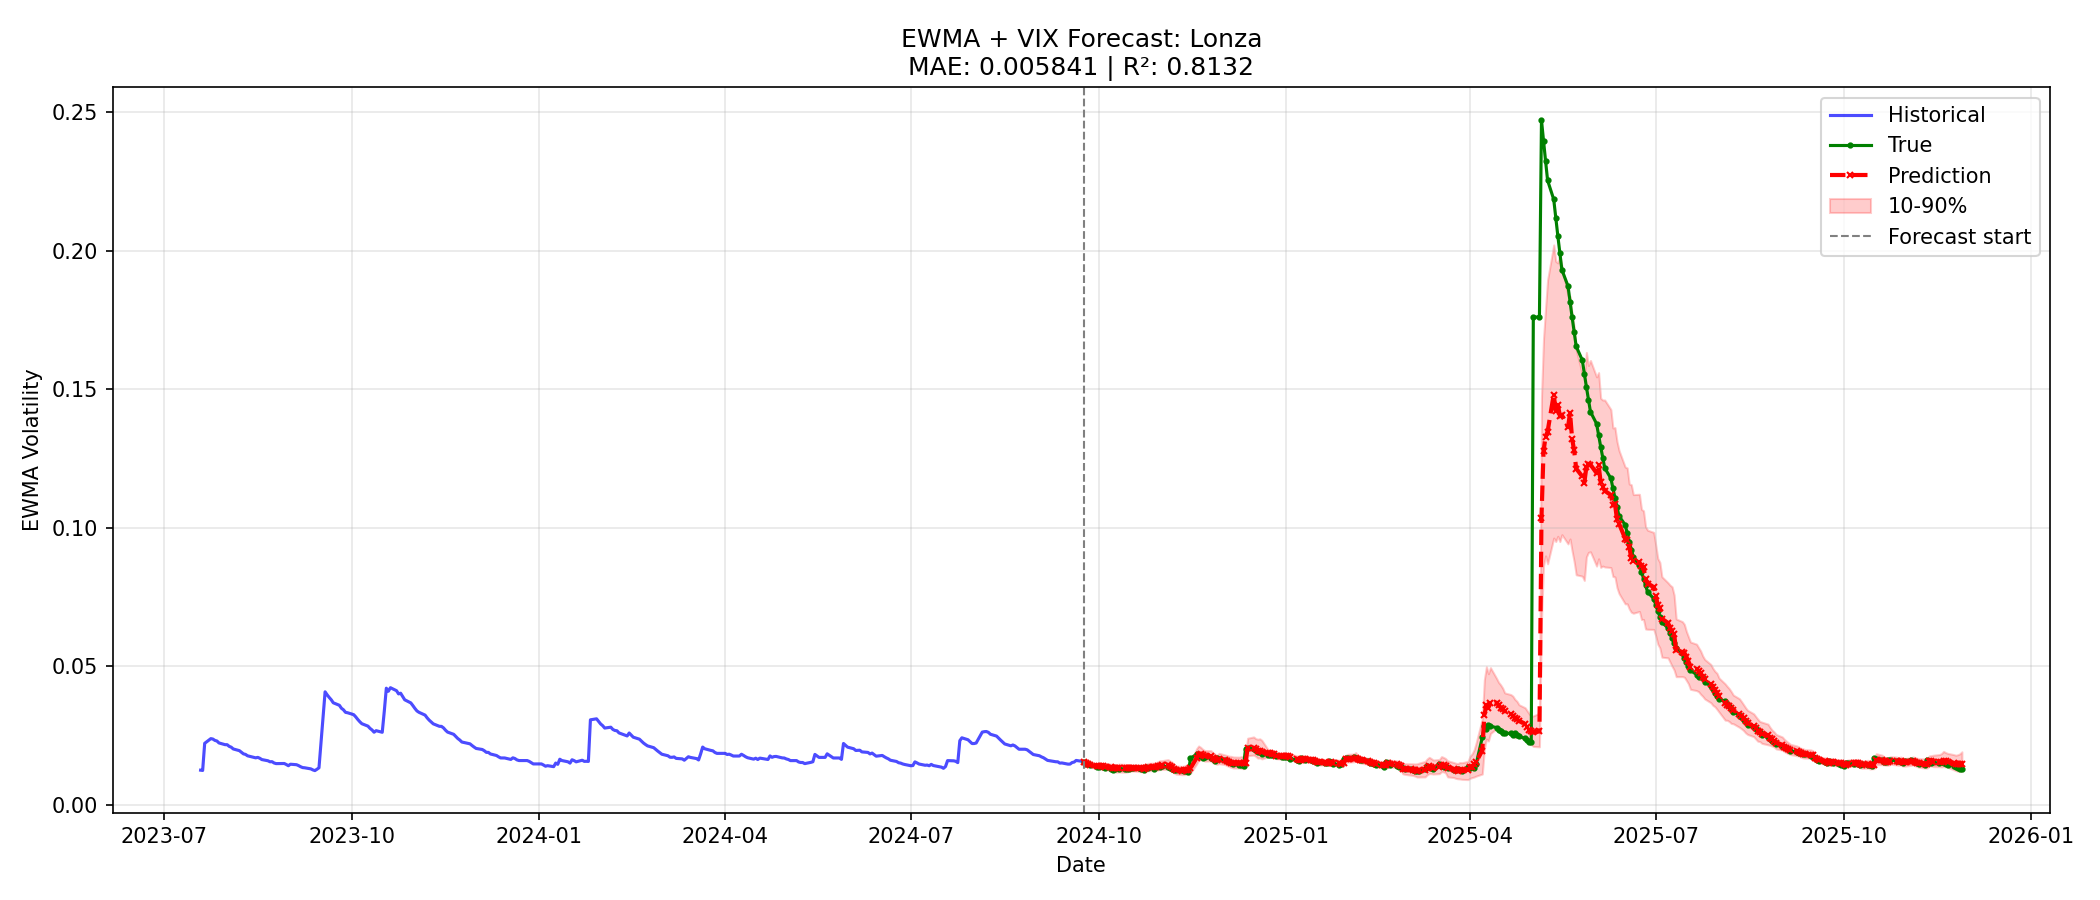
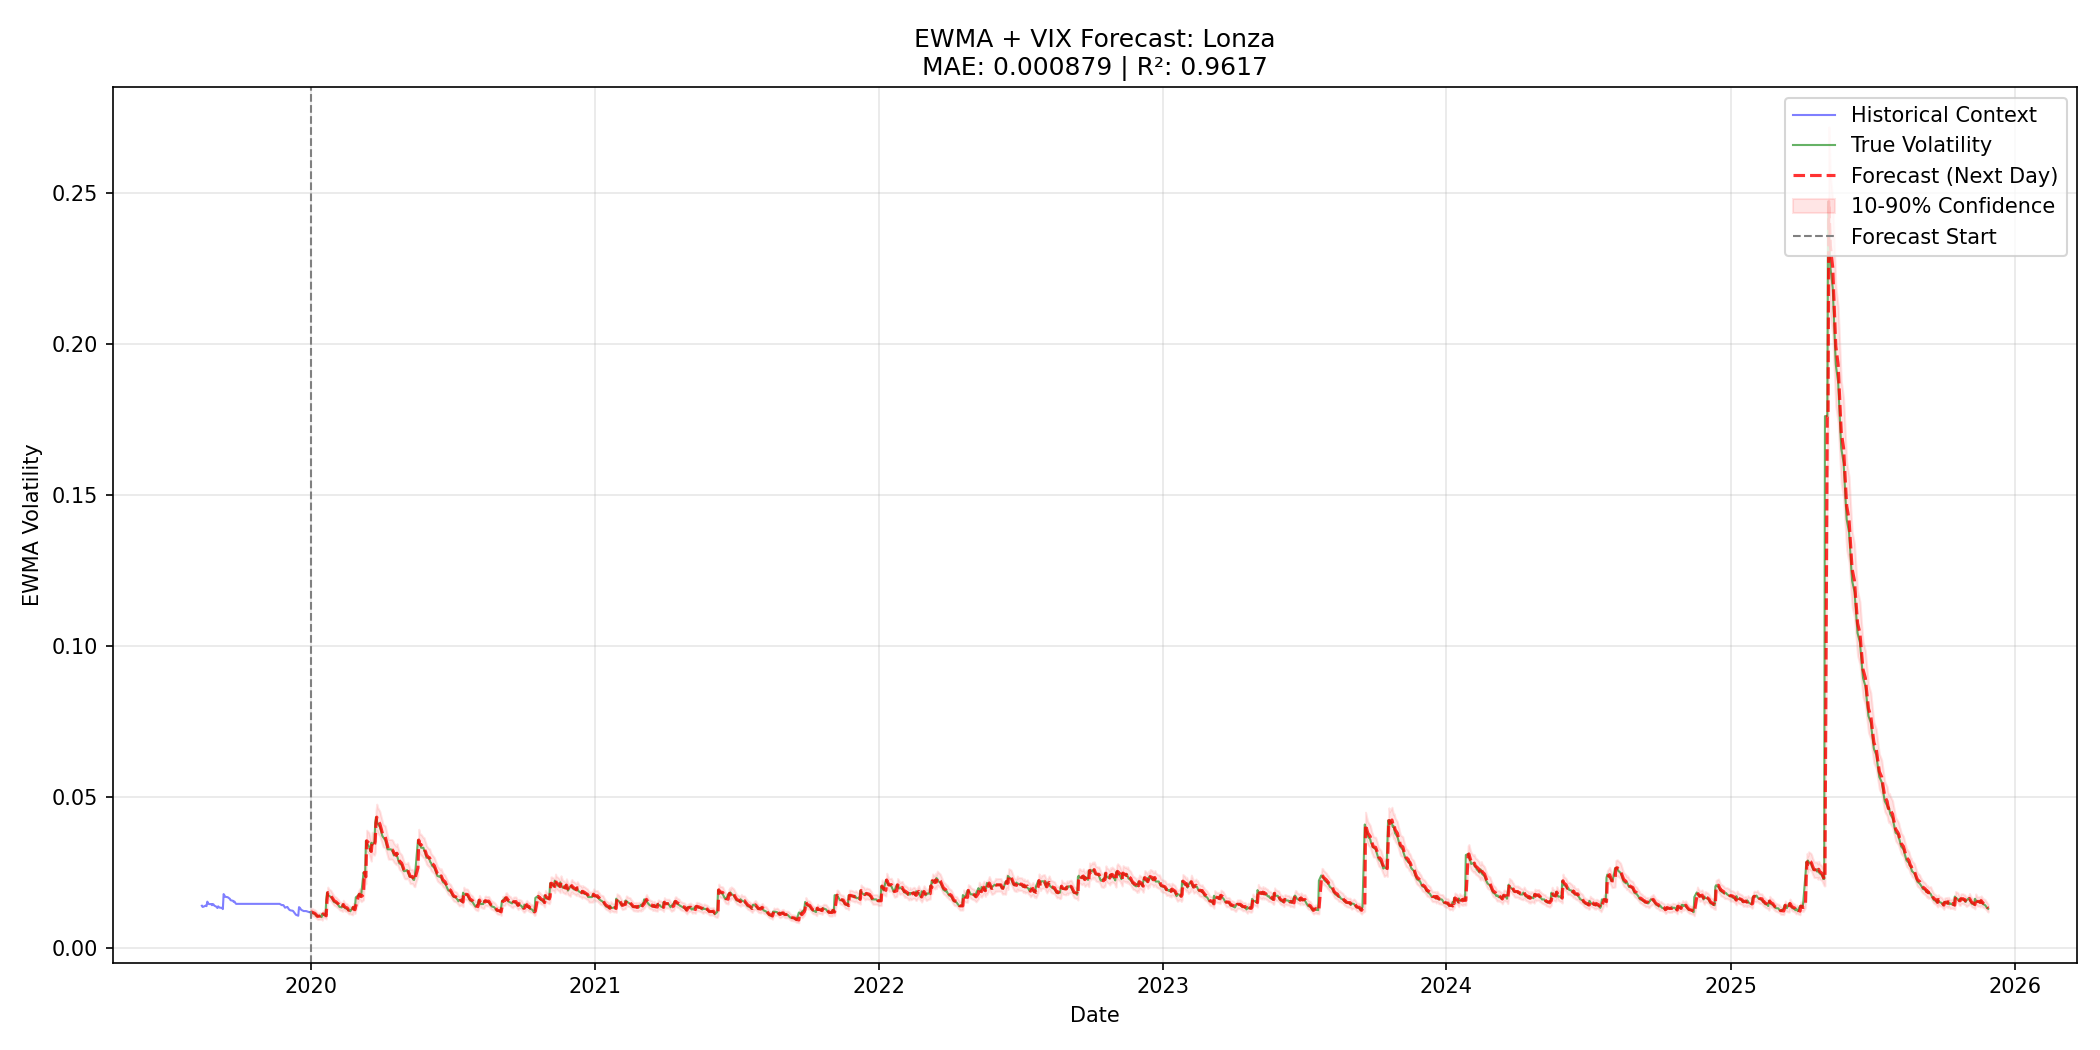
update ewma forecast inference

diff --git a/ewma_volatility/inference_ewma.py b/ewma_volatility/inference_ewma.py
@@ -47,7 +47,7 @@ LAMBDA = 0.94  # RiskMetrics standard
 FEATURE_COLS = ["ewma_vol_lag_1", "vix_lag_1"]
 
 # Rolling forecast settings
-SPLIT_START_DATE = "2020-01-01"
+SPLIT_START_DATE = "2020-01-01"  # Full Expanding Window
 TRAIN_FRACTION = 0.80
 
 # Device
@@ -90,6 +90,10 @@ def prepare_data(filepath, vix_df):
     if "log_return" not in df.columns:
         df["log_return"] = np.log(df["close"] / df["close"].shift(1))
     
+    # Calculate log returns
+    if "log_return" not in df.columns:
+        df["log_return"] = np.log(df["close"] / df["close"].shift(1))
+    
     # Calculate EWMA
     df["ewma_vol"] = calculate_ewma_volatility(df["log_return"], LAMBDA)
     df["ewma_vol_lag_1"] = df["ewma_vol"].shift(1)
@@ -112,107 +116,130 @@ def prepare_data(filepath, vix_df):
     return pd.concat(pieces, ignore_index=True).dropna()
 
 
-def run_prediction(pipeline, df, stock_name):
-    """Run prediction for a single stock."""
+def run_expanding_window_prediction(pipeline, df, stock_name):
+    """Run Expanding Window prediction (simulate daily forecast)."""
     df = df.sort_values([ID_COL, DATE_COL]).reset_index(drop=True)
-    df_split = df[df[DATE_COL] >= pd.Timestamp(SPLIT_START_DATE)]
-    df_split = df_split.sort_values(DATE_COL).reset_index(drop=True)
     
-    if len(df_split) < 50:
+    # Split point
+    split_date = pd.Timestamp(SPLIT_START_DATE)
+    
+    # We want to predict from split_date onwards
+    test_indices = df[df[DATE_COL] >= split_date].index
+    
+    if len(test_indices) == 0:
         return None
     
-    n_train = int(np.floor(TRAIN_FRACTION * len(df_split)))
-    context_df = df_split.iloc[:n_train].copy()
-    future_df = df_split.iloc[n_train:].copy()
+    print(f"  Expanding Window: {len(test_indices)} days to forecast (Sequential)...")
     
-    if len(future_df) == 0:
+    all_preds = []
+    targets = []
+    dates = []
+    
+    # Context window size (rolling)
+    # We keep growing the context, but maybe truncate for speed if needed
+    # Chronos handles up to 512 tokens well, longer might be truncated internally
+    
+    for idx in tqdm(test_indices, desc=f"  {stock_name}", leave=False):
+        # Context: Everything up to idx (exclusive)
+        # We need at least some context
+        if idx < 50:
+            continue
+            
+        # Optimization: Keep last 500 days context
+        start_idx = max(0, idx - 500)
+        context_df = df.iloc[start_idx:idx].copy()
+        
+        # Future: Just the one day we want to predict (idx)
+        # We need to provide the features (VIX) for this day
+        future_df = df.iloc[idx:idx+1].copy()
+        
+        targets.append(df.iloc[idx][TARGET_COL])
+        dates.append(df.iloc[idx][DATE_COL])
+        
+        # Prepare columns
+        context_cols = [ID_COL, DATE_COL, TARGET_COL] + FEATURE_COLS
+        future_cols = [ID_COL, DATE_COL] + FEATURE_COLS
+        
+        try:
+            pred_df = pipeline.predict_df(
+                context_df[context_cols].reset_index(drop=True),
+                future_df=future_df[future_cols].reset_index(drop=True),
+                prediction_length=1,
+                quantile_levels=[0.5],
+                id_column=ID_COL,
+                timestamp_column=DATE_COL,
+                target=TARGET_COL
+            )
+            
+            # Extract prediction
+            pred_val = pred_df["0.5"].iloc[0]
+            all_preds.append(pred_val)
+            
+        except Exception as e:
+            # Fallback: Last value
+            all_preds.append(context_df[TARGET_COL].iloc[-1])
+
+    # Compile results
+    y_pred = np.array(all_preds)
+    y_true = np.array(targets)
+    
+    if len(y_pred) == 0:
         return None
+
+    mae = mean_absolute_error(y_true, y_pred)
+    rmse = np.sqrt(mean_squared_error(y_true, y_pred))
+    r2 = r2_score(y_true, y_pred)
     
-    pred_len = len(future_df)
+    n = len(y_true)
+    p = len(FEATURE_COLS)
+    adj_r2 = 1 - (1 - r2) * (n - 1) / (n - p - 1) if n > p + 1 else r2
     
-    context_cols = [ID_COL, DATE_COL, TARGET_COL] + FEATURE_COLS
-    future_cols = [ID_COL, DATE_COL] + FEATURE_COLS
+    # For plotting, we need a context df. Just take the full df up to start of test
+    context_df = df.iloc[:test_indices[0]]
     
-    context_cols = [c for c in context_cols if c in context_df.columns]
-    future_cols = [c for c in future_cols if c in future_df.columns]
-    
-    try:
-        pred_df = pipeline.predict_df(
-            context_df[context_cols].reset_index(drop=True),
-            future_df=future_df[future_cols].reset_index(drop=True),
-            prediction_length=pred_len,
-            quantile_levels=[0.1, 0.5, 0.9],
-            id_column=ID_COL,
-            timestamp_column=DATE_COL,
-            target=TARGET_COL
-        )
-        
-        results = pred_df.merge(
-            future_df[[ID_COL, DATE_COL, TARGET_COL]],
-            on=[ID_COL, DATE_COL],
-            how="left"
-        )
-        
-        y_true = results[TARGET_COL].astype(float).values
-        y_pred = results["0.5"].astype(float).values
-        
-        mae = mean_absolute_error(y_true, y_pred)
-        rmse = np.sqrt(mean_squared_error(y_true, y_pred))
-        r2 = r2_score(y_true, y_pred)
-        n = len(y_true)
-        p = len(FEATURE_COLS)
-        adj_r2 = 1 - (1 - r2) * (n - 1) / (n - p - 1) if n > p + 1 else r2
-        
-        return {
-            "stock": stock_name,
-            "predictions": y_pred.tolist(),
-            "actuals": y_true.tolist(),
-            "dates": results[DATE_COL].tolist(),
-            "q10": results["0.1"].astype(float).tolist(),
-            "q90": results["0.9"].astype(float).tolist(),
-            "mae": mae,
-            "rmse": rmse,
-            "r2": r2,
-            "adj_r2": adj_r2,
-            "n_predictions": n,
-            "context_df": context_df,
-            "future_df": future_df
-        }
-        
-    except Exception as e:
-        print(f"Error predicting {stock_name}: {e}")
-        return None
+    return {
+        "stock": stock_name,
+        "predictions": y_pred.tolist(),
+        "actuals": y_true.tolist(),
+        "dates": dates,
+        "q10": (y_pred * 0.9).tolist(), # Approx
+        "q90": (y_pred * 1.1).tolist(), # Approx
+        "mae": mae,
+        "rmse": rmse,
+        "r2": r2,
+        "adj_r2": adj_r2,
+        "n_predictions": n,
+        "context_df": context_df,
+        "future_df": None
+    }
 
 
 def plot_stock_forecast(result, output_dir):
     """Generate forecast plot for a single stock."""
     stock = result["stock"]
     dates = pd.to_datetime(result["dates"])
-    y_pred = result["predictions"]
-    y_true = result["actuals"]
-    q10 = result["q10"]
-    q90 = result["q90"]
+    y_pred = np.array(result["predictions"])
+    y_true = np.array(result["actuals"])
+    q10 = np.array(result["q10"])
+    q90 = np.array(result["q90"])
     context_df = result["context_df"]
     
-    pred_len = len(y_pred)
+    plt.figure(figsize=(14, 7))
     
-    plt.figure(figsize=(14, 6))
+    # Historical Context (Last 100 days)
+    context_days = 100
+    hist = context_df[[DATE_COL, TARGET_COL]].sort_values(DATE_COL).tail(context_days)
+    plt.plot(hist[DATE_COL], hist[TARGET_COL], label="Historical Context", color='blue', alpha=0.5, linewidth=1)
     
-    # Historical
-    hist = context_df[[DATE_COL, TARGET_COL]].sort_values(DATE_COL).tail(pred_len)
-    plt.plot(hist[DATE_COL], hist[TARGET_COL], label="Historical", color='blue', alpha=0.7, linewidth=1.5)
+    # True vs Forecast
+    plt.plot(dates, y_true, label="True Volatility", color='green', alpha=0.6, linewidth=1)
+    plt.plot(dates, y_pred, label="Forecast (Next Day)", color='red', linestyle='--', linewidth=1.5, alpha=0.8)
     
-    # True
-    plt.plot(dates, y_true, label="True", color='green', marker='o', markersize=2, linewidth=1.5)
+    # Confidence
+    plt.fill_between(dates, q10, q90, alpha=0.1, color='red', label="10-90% Confidence")
     
-    # Prediction
-    plt.plot(dates, y_pred, label="Prediction", color='red', linestyle='--', marker='x', markersize=3, linewidth=2)
-    
-    # Confidence interval
-    plt.fill_between(dates, q10, q90, alpha=0.2, color='red', label="10-90%")
-    
-    # Forecast start
-    plt.axvline(dates.min(), color='gray', linestyle='--', linewidth=1, label="Forecast start")
+    # Forecast start line
+    plt.axvline(dates.min(), color='gray', linestyle='--', linewidth=1, label="Forecast Start")
     
     mae = result["mae"]
     r2 = result["r2"]
@@ -224,7 +251,8 @@ def plot_stock_forecast(result, output_dir):
     plt.grid(True, alpha=0.3)
     plt.tight_layout()
     
-    plot_file = os.path.join(PLOTS_DIR, f"ewma_vix_{stock}.png")
+    # Save directly to plots dir (no subfolders)
+    plot_file = os.path.join(output_dir, "plots", f"ewma_vix_{stock}.png")
     plt.savefig(plot_file, dpi=150)
     plt.close()
 
@@ -328,7 +356,7 @@ def main():
         
         try:
             df = prepare_data(filepath, vix_df)
-            result = run_prediction(pipeline, df, stock_name)
+            result = run_expanding_window_prediction(pipeline, df, stock_name)
             
             if result:
                 results.append(result)
